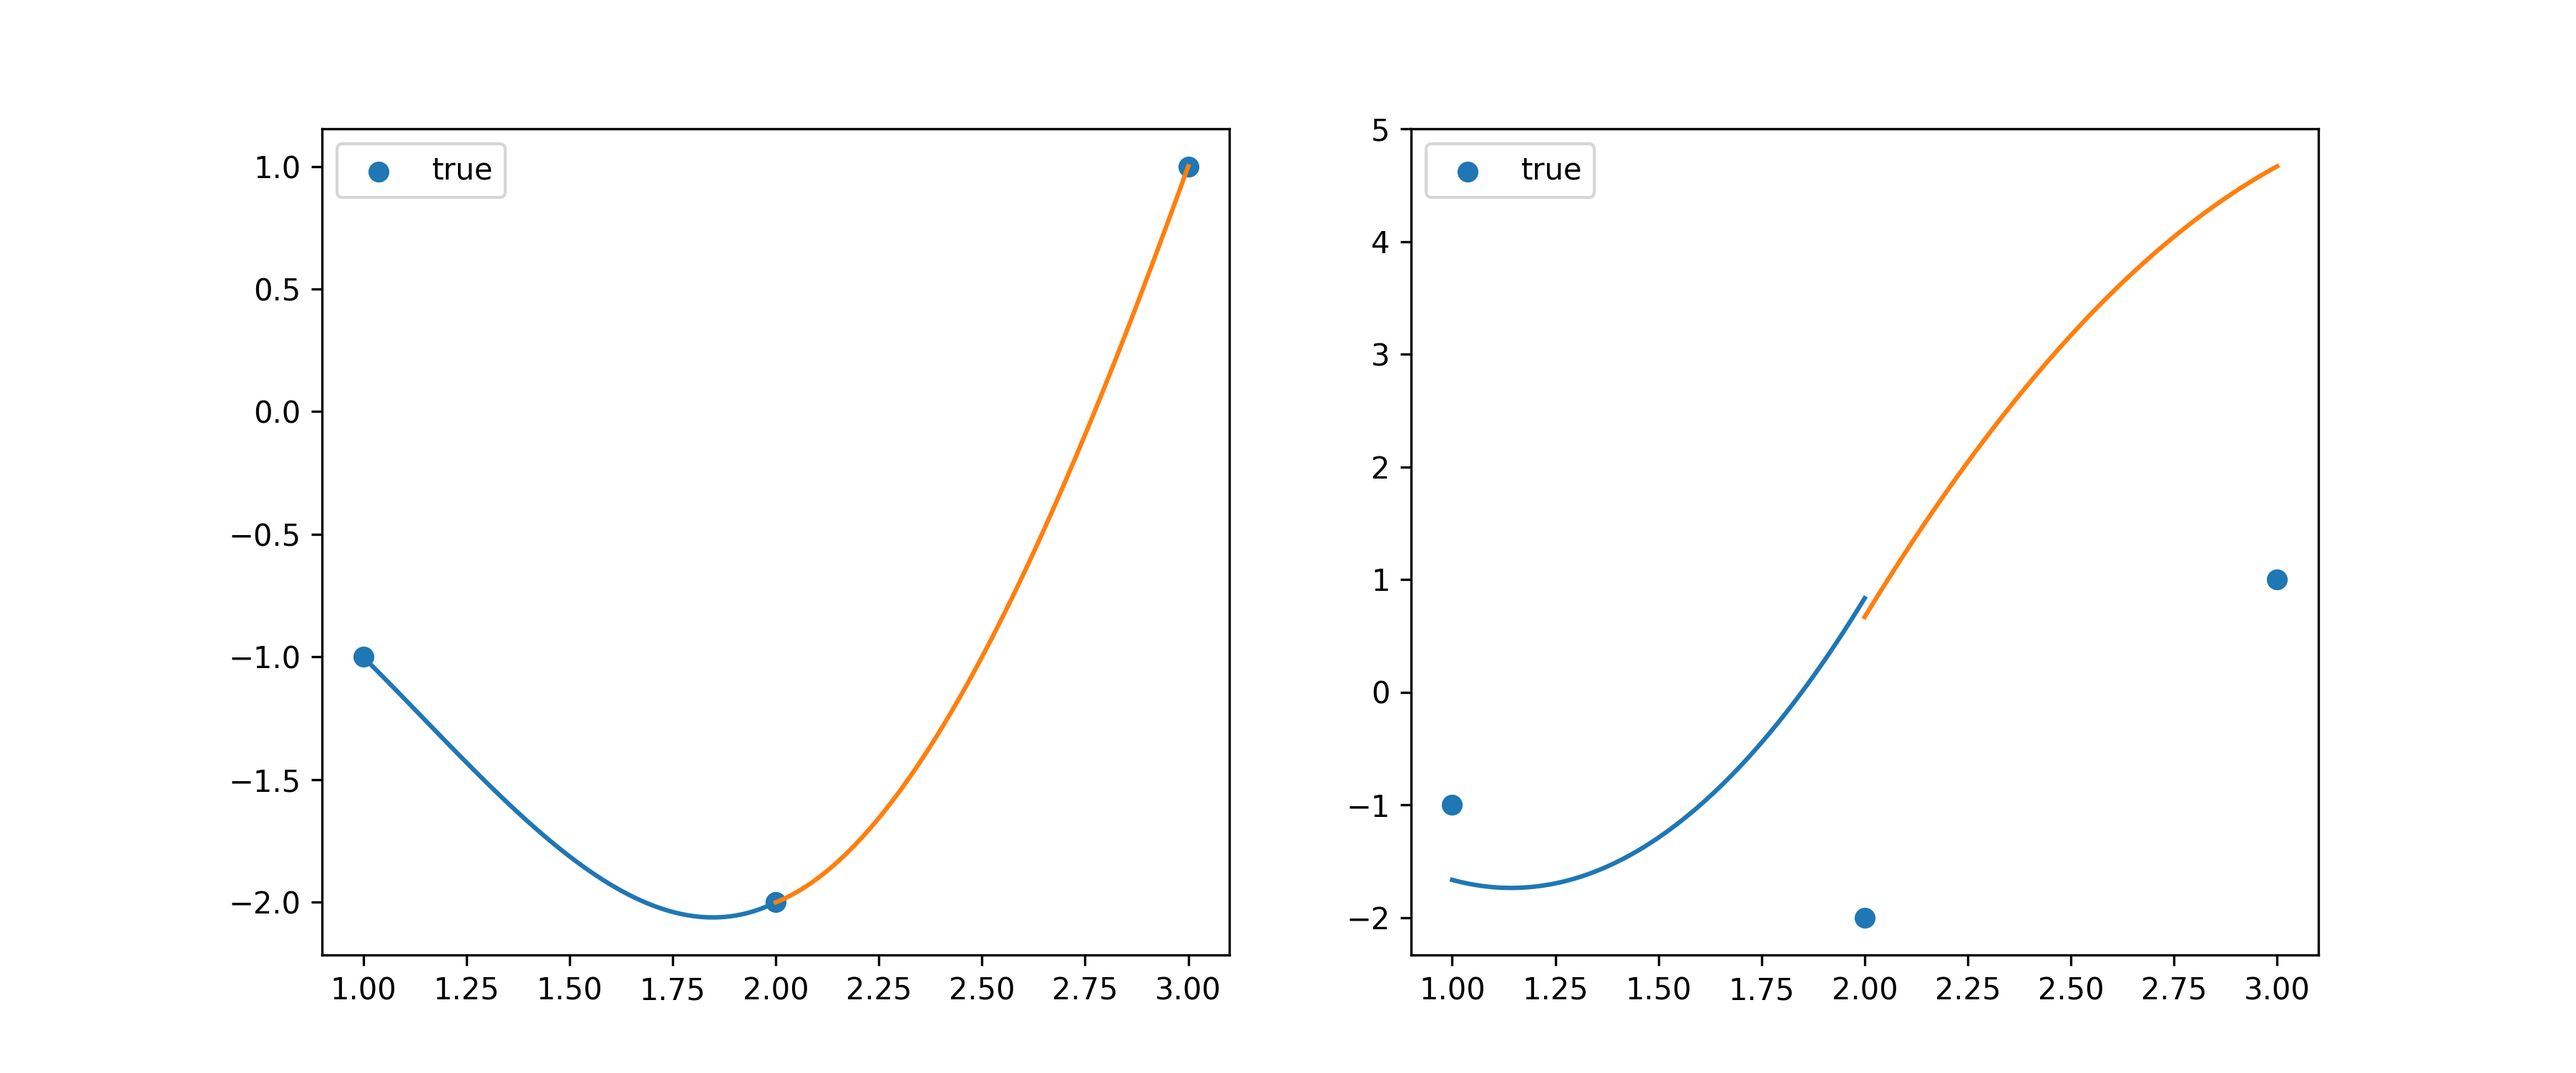
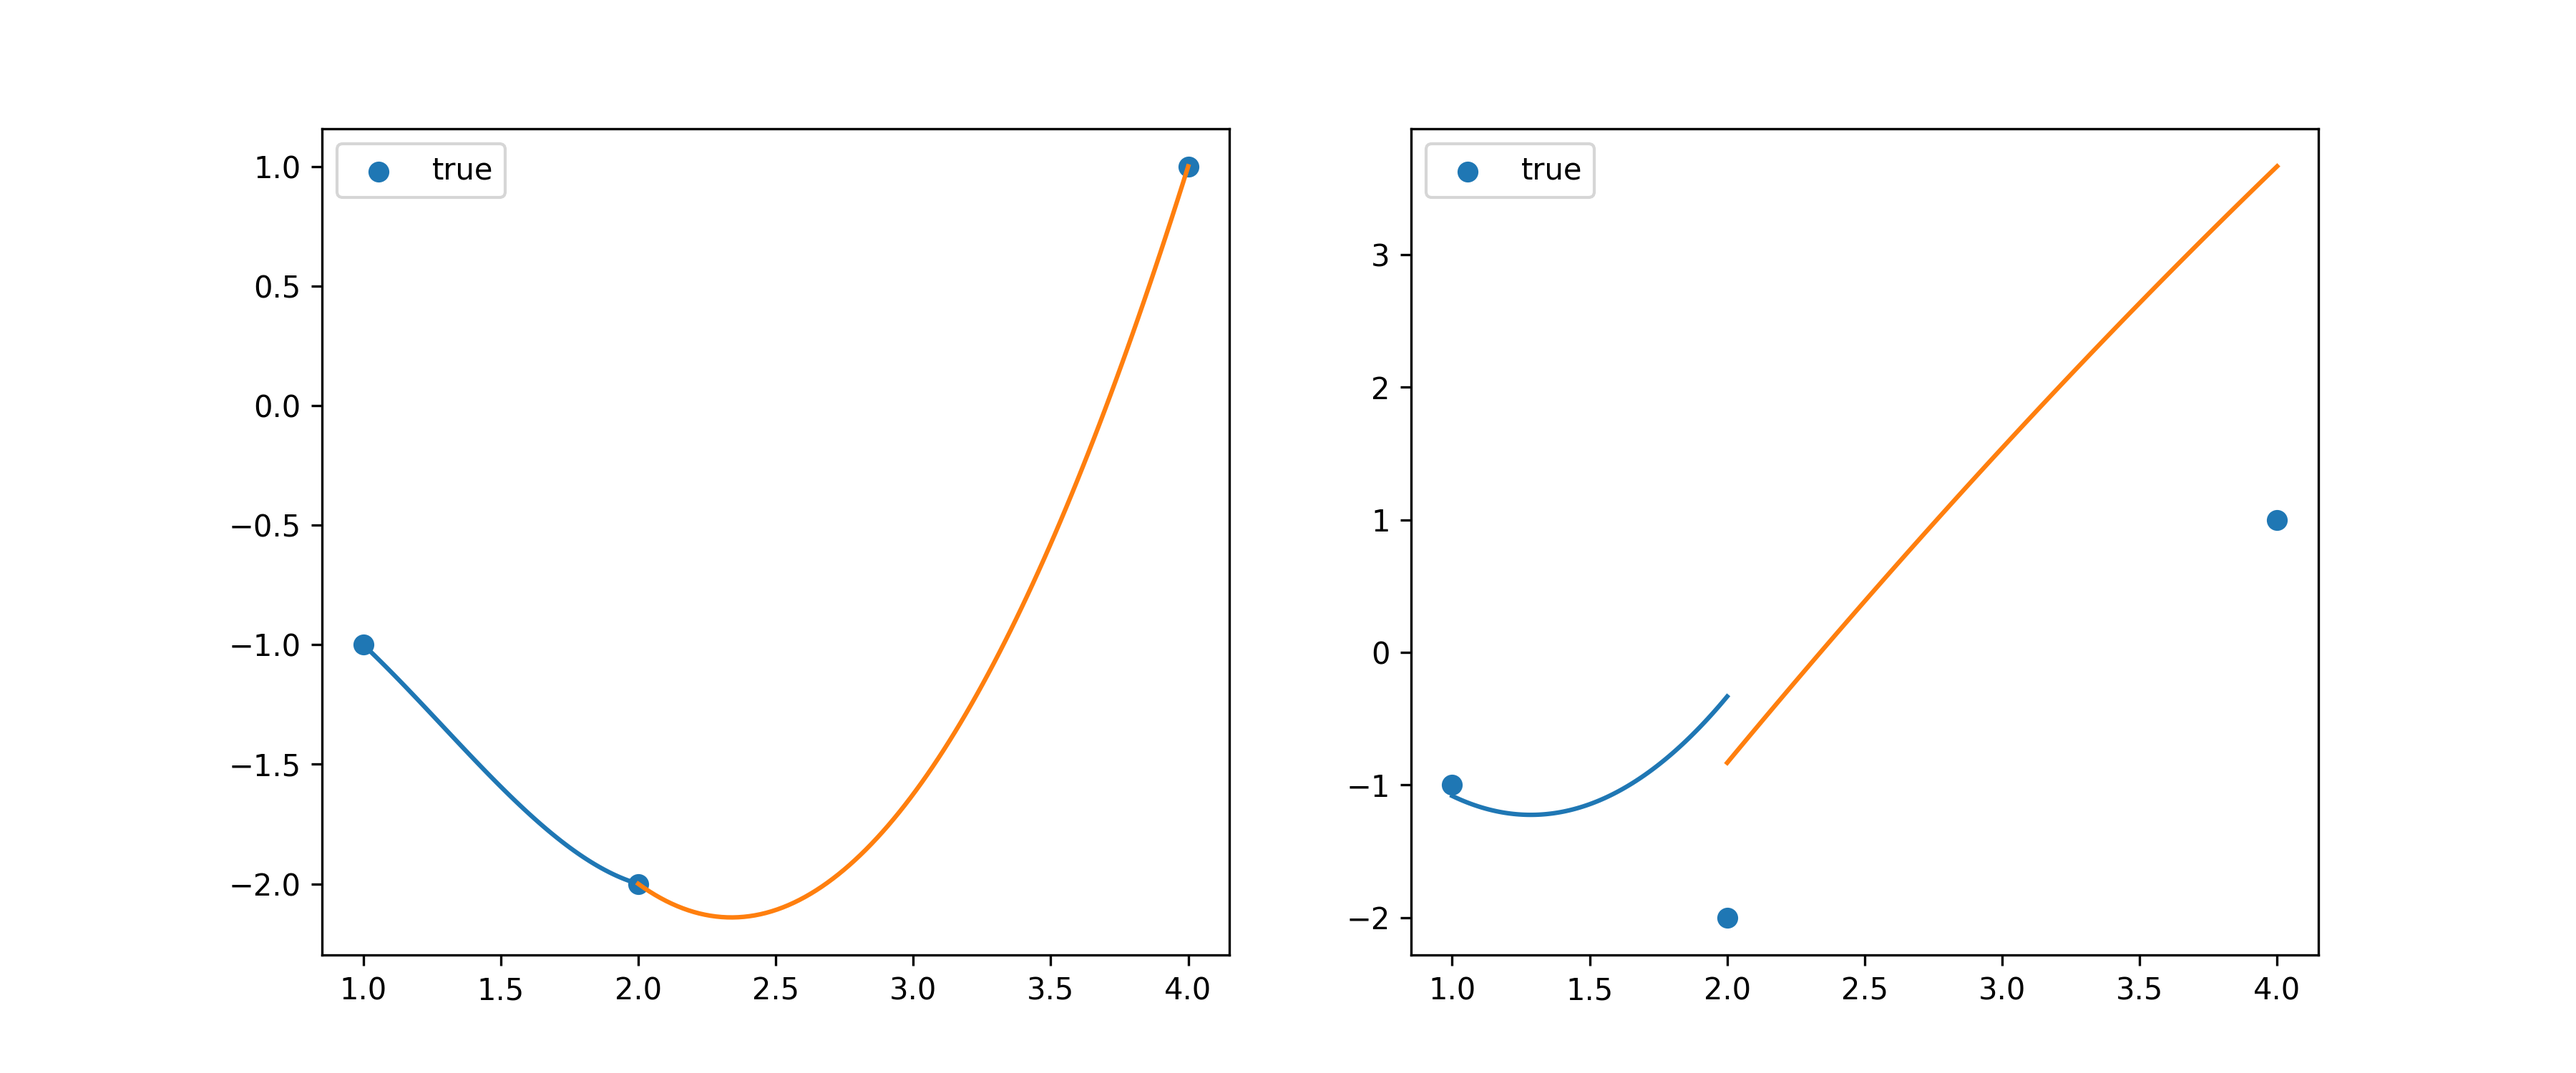
#00000027

diff --git a/test1/task1var1_2026_09_25.py b/test1/task1var1_2026_09_25.py
@@ -1,24 +1,33 @@
 
 import numpy as np
 
-n = 2000
-x = 50
+h = 6.62607015e-34
+c = 299792458
+k = 1.380649e-23
+
+def I(l, T):
+    return 2 * np.pi * h * c ** 2 / (l ** 5) * 1 / (np.exp(h * c / (l * k * T)) - 1)
 
 
+def x(l, T):
+    return h * c / (l * k * T)
 
-def factorial(n):
-    answer = 1
-    i = 1
-    while i < n:
-        i += 1
-        answer *= i
+def b(x):
+    return h * c / (k * x)
 
-    return answer
 
-def exp(x):
-    result = 0
-    for i in range(1, n):
-        result += x ** i / factorial(i)
-    return result
+def f(x):
+    return 5 * np.exp(-x) + x - 5
 
-print(np.exp(x), exp(x), np.exp(x) - exp(x))
+
+def der(x):
+    return -5 * np.exp(-x) + 1
+
+def Newton(x0):
+
+    x = x0 - f(x0) / der(x0)
+    while np.abs(f(x) / f(x0)) > 10e-6:
+        x = x - f(x) / der(x)
+    return x
+
+print(b(Newton(100)))

diff --git a/test1/task3var1_2026_09_25.py b/test1/task3var1_2026_09_25.py
@@ -1,10 +1,9 @@
 
 import numpy as np
 import matplotlib.pyplot as plt
-from scipy.interpolate import lagrange
 
 
-x = np.array([1, 2, 3])
+x = np.array([1, 2, 4])
 y = np.array([-1, -2, 1])
 der_a = -1
 der2_b = 2
